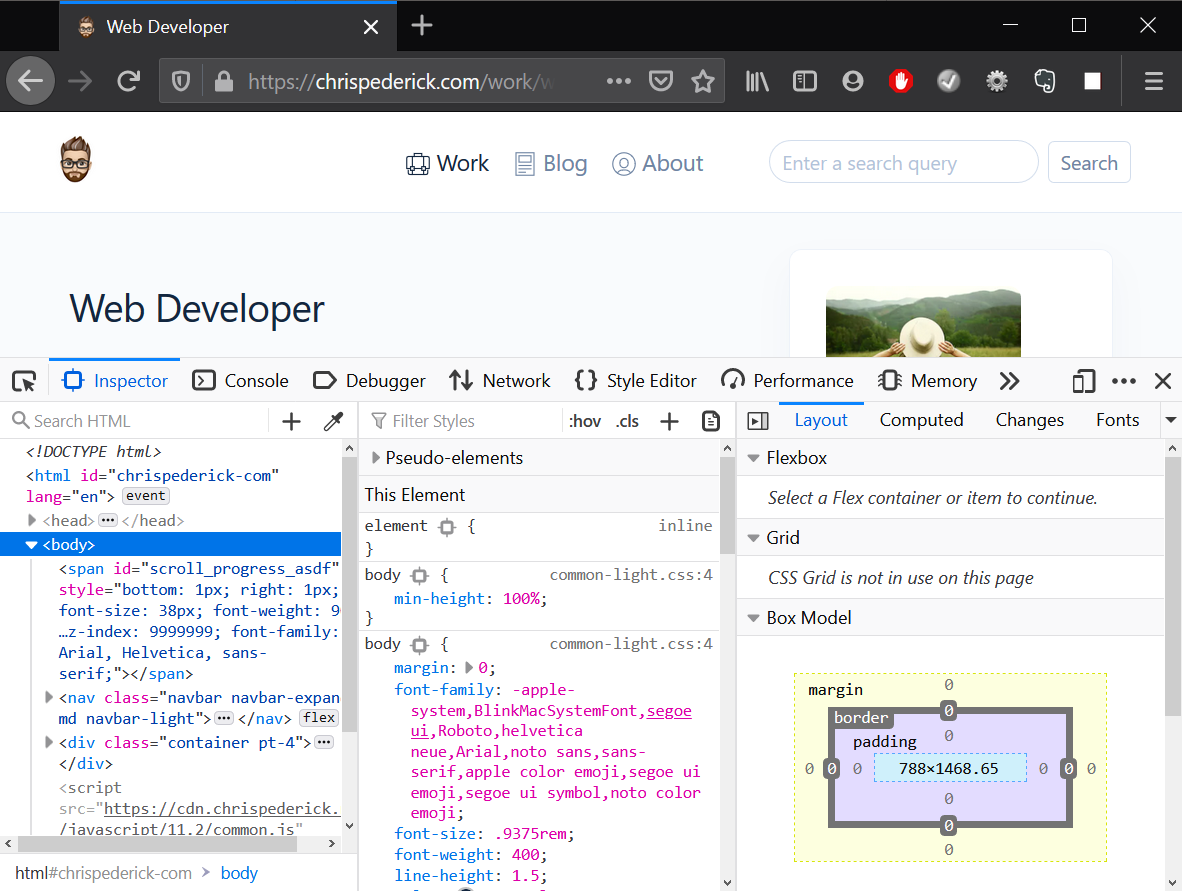
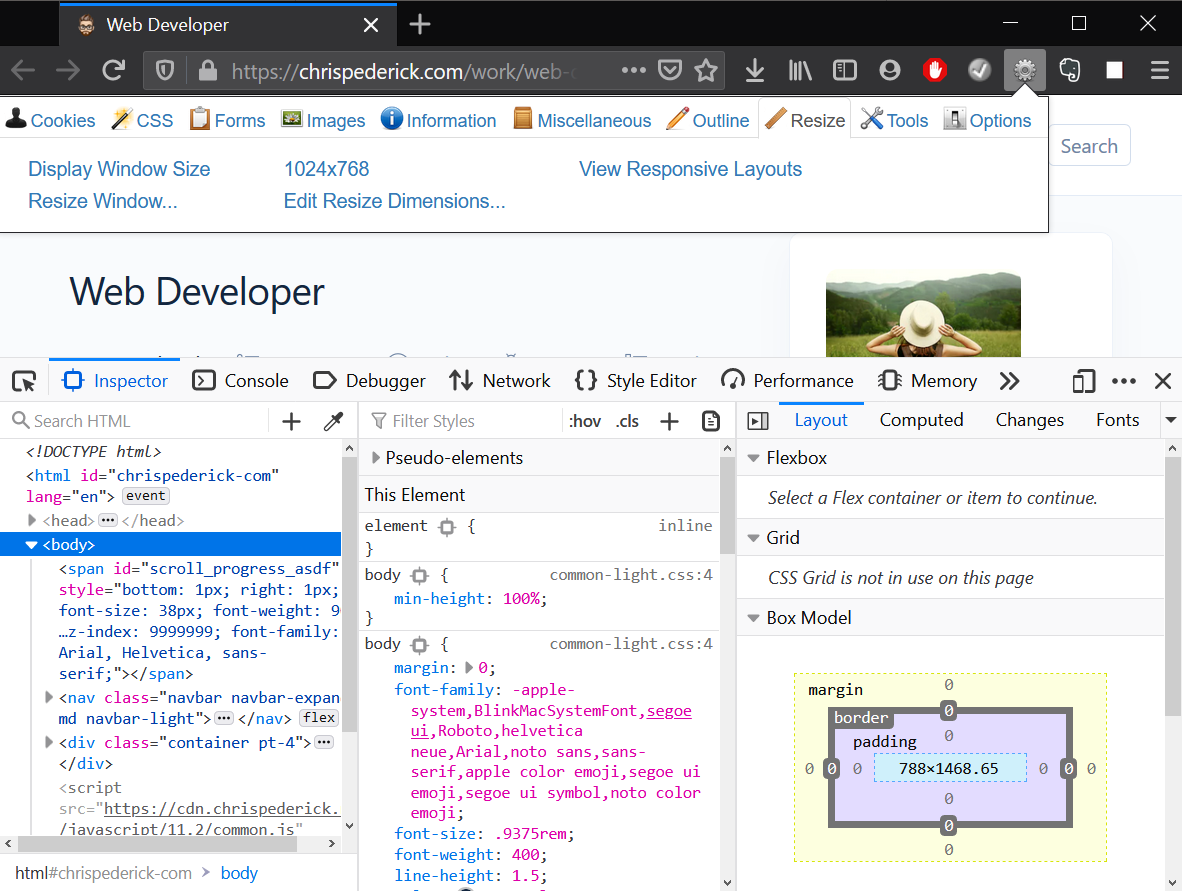
firefox

Changed region(s): [[0.0, 0.0, 1.0, 0.2424], [0.7005, 0.303, 0.8832, 0.4242], [0.0609, 0.303, 0.2741, 0.3636]]

diff --git a/learn-vi-605-WebDesign-Firefox.html b/learn-vi-605-WebDesign-Firefox.html
@@ -1,0 +1,45 @@
+<!DOCTYPE html PUBLIC "-//W3C//DTD XHTML 1.0 Strict//EN"
+"http://www.w3.org/TR/xhtml1/DTD/xhtml1-strict.dtd">
+
+<html xmlns="http://www.w3.org/1999/xhtml" lang="zh" xml:lang="zh">
+<head>
+	<meta http-equiv="Content-Type" content="text/html; charset=utf-8" />
+	<link rel="stylesheet" type="text/css" href="learn-vi.css" />
+	<title>VIM学习笔记 网页开发-Firefox浏览器</title>
+</head>
+<body>
+	<h1>VIM学习笔记 网页开发-Firefox浏览器</h1>
+	<p>在编写<a title="笔记列表" href="http://yyq123.github.com/learn-vim/learn-vi-00-00-TOC.html">VIM学习笔记</a>的过程中，我需要在Firefox中不断预览并验证手工编写的网页；同时也用于预览Markdown格式的<a href="http://yyq123.github.com/learn-vim/README.md" title="Readme">Readme</a>文档。</p>
+	<p>以下将介绍我常用的几款Firefox扩展。</p>
+
+	<h2 class="article"><a id="Firefox_Screenshots">Firefox Screenshots</a></h2>
+	<p>使用内置的<a href="https://screenshots.firefox.com/" title="Firefox Screenshots">Firefox Screenshots</a>，可以很方便地截取网页。通过鼠标拖拽，就能够滚动屏幕以截取超过当前屏显的较长网页。</p>
+	<p><a href="https://yyq123.github.io/learn-vim/images/Firefox_Screenshots.png" title="Firefox_Screenshots"><img src="https://yyq123.github.io/learn-vim/images/Firefox_Screenshots.png" alt="Firefox_Screenshots" width="550" height="255" /></a></p>
+
+	<h2 class="article"><a id="Hides_scrollbars">Hides scrollbars</a></h2>
+	<p>窗口的纵向和横向滚动条，除了占用屏幕空间之外，实在想不出还有什么用处？安装<a href="https://addons.mozilla.org/en-US/firefox/addon/hide-scrollbars/" title="Hides scrollbars">Hides scrollbars</a>之后，将自动隐藏滚动条。当然你也可以点击工具栏上的按钮，来重新显示滚动条。</p>
+	<p><a href="https://yyq123.github.io/learn-vim/images/Firefox_extension_HidesScrollbars.png" title="Firefox_extension_HidesScrollbars"><img src="https://yyq123.github.io/learn-vim/images/Firefox_extension_HidesScrollbars.png" alt="Firefox_extension_HidesScrollbars" /></a></p>
+
+	<h2 class="article"><a id="Scroll_Progress_New">Scroll Progress New</a></h2>
+	<p>在隐藏滚动条之后，如果你希望了解当前所处的网页位置，那么可以使用<a href="https://addons.mozilla.org/en-US/firefox/addon/scroll-progress-new/" title="Scroll Progress New">Scroll Progress New</a>扩展，在滚动屏幕时显示相对于完整网页的百分比。</p>
+	<p>相对于冰冷无趣的滚动条，数字化的标识显然更加清晰直观。而且你还可以自定义百分比的显示效果：比如屏幕位置、字体大小、字体颜色和透明度等。</p>
+	<p><a href="https://yyq123.github.io/learn-vim/images/Firefox_extension_ScrollProgress_Options.png" title="Firefox_extension_ScrollProgress_Options"><img src="https://yyq123.github.io/learn-vim/images/Firefox_extension_ScrollProgress_Options.png" alt="Firefox_extension_ScrollProgress_Options" width="550" height="204" /></a></p>
+
+	<h2 class="article"><a id="Web_Developer">Web Developer</a></h2>
+	<p><a href="https://addons.mozilla.org/en-US/firefox/addon/web-developer/" title="Web Developer">Web Developer</a>可以说是网页开发的瑞士军刀，其提供的辅助工具可以大大提高网页开发和调试的效率。其功能非常丰富，比如检视网页元素、调试CSS、清理Cookie和调整窗口尺寸等等。关于更多功能的介绍，请查看<a href="https://chrispederick.com/work/web-developer/" title="chrispederick.com">chrispederick.com</a>。</p>
+	<p><a href="https://yyq123.github.io/learn-vim/images/Firefox_extension_WebDeveloper.png" title="Firefox_extension_WebDeveloper"><img src="https://yyq123.github.io/learn-vim/images/Firefox_extension_WebDeveloper.png" alt="Firefox_extension_WebDeveloper" width="550" height="415" /></a></p>
+
+	<h2 class="article"><a id="Html_Validator">Html Validator</a></h2>
+	<p>符合<a href="https://www.webstandards.org/" title="Web Standards">标准</a>的网页开发，可谓是不作恶的底线了。通过生产具有可读性的高质量代码，促成在不同浏览器中达成一致的显示效果，并且关照不同用户群体的可访问性（accessibility）。</p>
+	<p><a href="https://addons.mozilla.org/en-US/firefox/addon/html-validator/" title="Html Validator">Html Validator</a>是基于<a href="http://www.html-tidy.org/">Tidy</a>和<a href="http://openjade.sourceforge.net/">OpenSP</a>开发的，用于在本地验证网页是否符合<a href="http://www.w3.org/TR">W3C标准</a>。</p>
+	<p>使用<kbd>CTRL+SHIFT+I</kbd>快捷键打开&ldquo;Developer Tools&rdquo;面板，然后点击&ldquo;HTML Validator&rdquo;页，将检查当前网页并显示存在的错误及原因。</p>
+	<p><a href="https://yyq123.github.io/learn-vim/images/Firefox_extension_HtmlValidator.png" title="Firefox_extension_HtmlValidator"><img src="https://yyq123.github.io/learn-vim/images/Firefox_extension_HtmlValidator.png" /></a></p>
+
+	<h2 class="article"><a id="GitLab_Markdown_Viewer">GitLab Markdown Viewer</a></h2>
+	<p>我不是Markdown的fans，我也不太明白：为什么有了HTML这样完整的标签体系，还需要再发明一个类似功能的子集。但是为了编写Readme文档，我还是需要利用<a href="https://addons.mozilla.org/en-US/firefox/addon/gitlab-markdown-viewer/" title="GitLab Markdown Viewer">GitLab Markdown Viewer</a>来预览Markdown格式的文档。</p>
+	<p><a href="https://yyq123.github.io/learn-vim/images/Firefox_extension_gitlab_markdown_viewer.png" title="Firefox_extension_gitlab_markdown_viewer"><img src="https://yyq123.github.io/learn-vim/images/Firefox_extension_gitlab_markdown_viewer.png" alt="Firefox_extension_gitlab_markdown_viewer" /></a></p>
+
+	<p style="border-top:1px solid lightgray"><span style="float:right">Ver: 2.0&nbsp;|&nbsp;<a href="mailto:yyq123@gmail.com">YYQ</a></span><span>&lt;<a title="屏幕截图(Toolkit-Screen)" href="http://yyq123.github.io/learn-vim/learn-vi-801-Toolkit-Screen.html">上一篇</a>&nbsp;|<a title="笔记列表" href="http://yyq123.github.com/learn-vim/learn-vi-00-00-TOC.html">&nbsp;目录&nbsp;</a>|&nbsp;<a title="图表制作(Toolkit-Diagram" href="http://yyq123.github.io/learn-vim/learn-vi-802-Toolkit-Diagram.html">下一篇</a>&gt;</span></p>
+
+</body>
+</html>

diff --git a/learn-vi-00-00-TOC.html b/learn-vi-00-00-TOC.html
@@ -269,6 +269,12 @@ html + body .nav ul ul a, html + body .nav ul ul a:visited {text-indent: 0; padd
 	</ul>
 	</li>
 
+	<li><a id="WebDesign">网页开发</a>
+	<ul>
+	<li><a href="http://yyq123.github.io/learn-vim/learn-vi-605-WebDesign-Firefox.html" title="Firefox浏览器">Firefox浏览器</a></li>
+	</ul>
+	</li>
+
 	<li><a id="RegExr">正则表达式</a>
 	<ul>
 	<li><a href="http://yyq123.github.io/learn-vi-81-RegularExpressionBasic.html" title="Regular Expression Basic">基础(Basic)</a></li>
